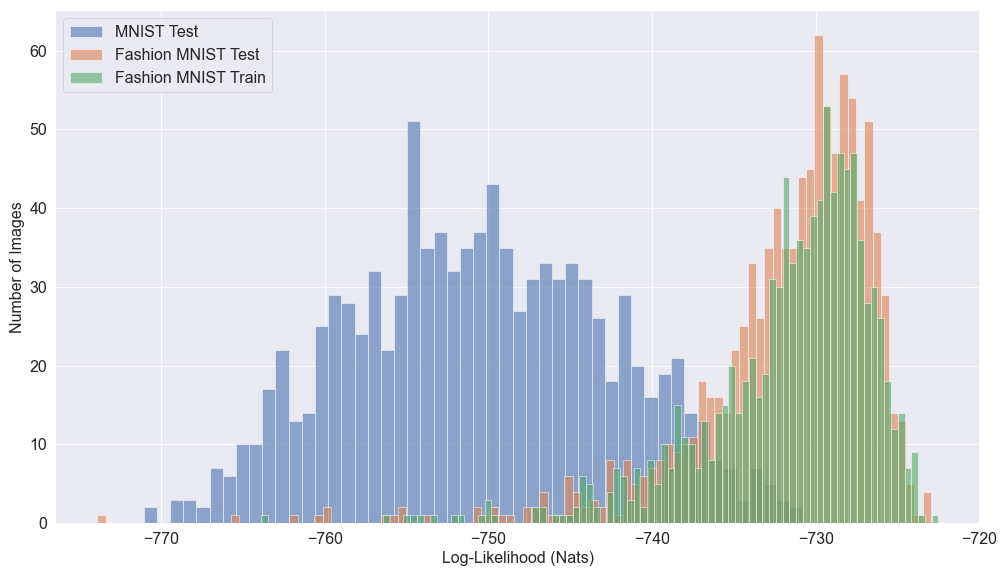
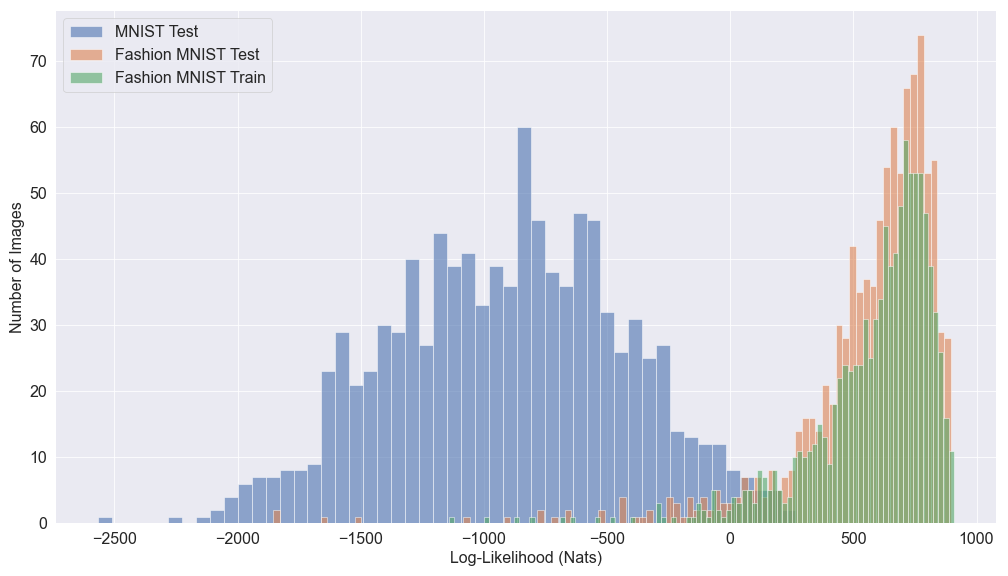
Added Bernoulli likelihood and learning the likelihood scale for the Gaussian case.

diff --git a/code/train_bvae.py b/code/train_bvae.py
@@ -27,8 +27,9 @@ def config():
     data_dir = "/scratch/gf332/Misc/datasets/"
     model_base_save_dir = "/scratch/gf332/Misc/bvae_experiments"
 
-    # Model options: vae, bvae-encoder, bvae-full
+    # Model options: vae, bvae-decoder, bvae-full
     model_type = "vae"
+    likelihood = "gaussian"
     prior_mode = "weight_and_bias"
 
     dataset_name = "fashion_mnist"
@@ -46,7 +47,7 @@ def config():
     # Logging
     tensorboard_log_freq = 1000
 
-    model_save_dir = f"{model_base_save_dir}/{dataset_name}/{model_type}/latent_dim_{latent_dim}"
+    model_save_dir = f"{model_base_save_dir}/{dataset_name}/{model_type}/{likelihood}_likelihood/latent_dim_{latent_dim}"
 
     current_time = datetime.datetime.now().strftime("%Y%m%d-%H%M%S")
     log_dir = f"{model_save_dir}/logs/{current_time}/train"
@@ -56,6 +57,7 @@ def config():
 def train(model_save_dir,
           data_dir,
           model_type,
+          likelihood,
           prior_mode,
           dataset_name,
           dataset_size,
@@ -93,6 +95,7 @@ def train(model_save_dir,
     # -------------------------------------------------------------------------
 
     model = BVAE(latent_dim=latent_dim,
+                 likelihood=likelihood,
                  prior_mode=prior_mode)
 
     model.build(input_shape=(batch_size, 28, 28, 1))
@@ -101,7 +104,7 @@ def train(model_save_dir,
 
     encoder_optimizer = {
         "vae": tf.optimizers.Adam(learning_rate=1e-3),
-        "bvae-encoder": tf.optimizers.Adam(learning_rate=1e-3),
+        "bvae-decoder": tf.optimizers.Adam(learning_rate=1e-3),
         "bvae-full": AdaptiveSGHMC(learning_rate=learning_rate,
                                    burnin=num_batch_per_epoch * burnin,
                                    data_size=dataset_size,
@@ -113,7 +116,7 @@ def train(model_save_dir,
     decoder_optimizer = {
         "vae": tf.optimizers.Adam(learning_rate=1e-3),
 
-        "bvae-encoder": AdaptiveSGHMC(learning_rate=learning_rate,
+        "bvae-decoder": AdaptiveSGHMC(learning_rate=learning_rate,
                                    burnin=num_batch_per_epoch * burnin,
                                    data_size=dataset_size,
                                    overestimation_rate=1,
@@ -158,13 +161,14 @@ def train(model_save_dir,
     def train_step(model, batch, beta):
 
         if int(ckpt.step) % num_batch_per_epoch == 0:
-            tf.print("Resampling weight scales!")
 
             if model_type == "bvae-full":
                 model.resample_weight_prior_parameters(kind="encoder")
+                tf.print("Resampling encoder weight scales!")
 
-            if model_type in ["bvae-encoder", "bvae-full"]:
+            if model_type in ["bvae-decoder", "bvae-full"]:
                 model.resample_weight_prior_parameters(kind="decoder")
+                tf.print("Resampling decoder weight scales!")
 
         weight_log_probs = []
         hyperprior_log_probs = []
@@ -175,7 +179,7 @@ def train(model_save_dir,
 
             reconstructions = model(batch)
 
-            elbo = model.likelihood - beta * model.kl_divergence
+            elbo = model.data_log_likelihood - beta * model.kl_divergence
 
             encoder_loss = -elbo
             decoder_loss = -elbo
@@ -189,7 +193,7 @@ def train(model_save_dir,
 
                 encoder_loss += -(encoder_wlp + encoder_hplp)
 
-            if model_type in ["bvae-encoder", "bvae-full"]:
+            if model_type in ["bvae-decoder", "bvae-full"]:
                 decoder_wlp = model.weight_prior_log_prob(kind="decoder") / data_size
                 decoder_hplp = model.hyper_prior_log_prob(kind="decoder") / data_size
 
@@ -201,14 +205,19 @@ def train(model_save_dir,
         encoder_gradients = tape.gradient(encoder_loss, model.encoder.trainable_variables)
         encoder_optimizer.apply_gradients(zip(encoder_gradients, model.encoder.trainable_variables))
 
-        decoder_gradients = tape.gradient(decoder_loss, model.decoder.trainable_variables)
-        decoder_optimizer.apply_gradients(zip(decoder_gradients, model.decoder.trainable_variables))
+        extra_decoder_vars = []
+
+        if model.likelihood == "gaussian":
+            extra_decoder_vars = [model.likelihood_log_scale]
+
+        decoder_gradients = tape.gradient(decoder_loss, model.decoder.trainable_variables + extra_decoder_vars)
+        decoder_optimizer.apply_gradients(zip(decoder_gradients, model.decoder.trainable_variables + extra_decoder_vars))
 
         del tape
 
         individual_kls = tf.reduce_mean(tfd.kl_divergence(model.posterior, model.prior), axis=0)
 
-        return reconstructions, model.likelihood, model.kl_divergence, weight_log_probs, hyperprior_log_probs, individual_kls
+        return reconstructions, model.data_log_likelihood, model.kl_divergence, weight_log_probs, hyperprior_log_probs, individual_kls
 
     for batch in train_data:
 
@@ -216,7 +225,7 @@ def train(model_save_dir,
 
         beta = tf.minimum((1. / tf.cast(anneal_epochs * num_batch_per_epoch, tf.float32)) * tf.cast(ckpt.step, tf.float32), 1.)
 
-        reconstructions, likelihood, kl_divergence, prior_log_probs, hyperprior_log_probs, individual_kls = train_step(model, batch, beta)
+        reconstructions, log_likelihood, kl_divergence, prior_log_probs, hyperprior_log_probs, individual_kls = train_step(model, batch, beta)
 
         if int(ckpt.step) % num_batch_per_epoch == 0:
 
@@ -225,9 +234,9 @@ def train(model_save_dir,
             _log.info(f"Step {int(ckpt.step)}: Saved model to {save_path}")
 
             with summary_writer.as_default():
-                tfs.scalar(name="Likelihood", data=likelihood, step=ckpt.step)
+                tfs.scalar(name="Likelihood", data=log_likelihood, step=ckpt.step)
                 tfs.scalar(name="Total_KL", data=kl_divergence, step=ckpt.step)
-                tfs.scalar(name="ELBO", data=likelihood - kl_divergence, step=ckpt.step)
+                tfs.scalar(name="ELBO", data=log_likelihood - kl_divergence, step=ckpt.step)
                 tfs.scalar(name="Beta", data=beta, step=ckpt.step)
 
                 for name, prior_log_prob in prior_log_probs:
@@ -238,6 +247,9 @@ def train(model_save_dir,
 
                 tfs.image(name="Original", data=batch, step=ckpt.step)
                 tfs.image(name="Reconstruction", data=reconstructions, step=ckpt.step)
+
+                if model.likelihood == "gaussian":
+                    tfs.scalar(name="Likelihood_scale", data=tf.exp(model.likelihood_log_scale), step=ckpt.step)
 
                 for i, kl in enumerate(individual_kls):
                     tfs.scalar(f"KL/dim_{i}", data=kl, step=ckpt.step)

diff --git a/code/bvae.py b/code/bvae.py
@@ -8,6 +8,10 @@ tfl = tf.keras.layers
 tfd = tfp.distributions
 
 
+def bernoulli_log_prob(mean, observation, eps=1e-7):
+    return observation * tf.math.log(mean + eps) + (1. - observation) * tf.math.log(1. - mean + eps)
+
+
 class Encoder(tfl.Layer):
 
     def __init__(self, prior_mode, latent_dim, dim_h=25, name="encoder", *args, **kwargs):
@@ -128,9 +132,24 @@ class Decoder(tfl.Layer):
 
 class BVAE(tf.keras.Model):
 
-    def __init__(self, latent_dim, prior_mode="weigth_and_bias", name="bvae", *args, **kwargs):
+    _AVAILABLE_LIKELIHOODS = [
+        "bernoulli",
+        "gaussian"
+    ]
+
+    def __init__(self,
+                 latent_dim,
+                 likelihood="gaussian",
+                 prior_mode="weigth_and_bias",
+                 name="bvae",
+                 *args, **kwargs):
 
         super().__init__(name=name, *args, **kwargs)
+
+        if likelihood not in self._AVAILABLE_LIKELIHOODS:
+            raise ValueError(f"Likelihood must be one of {self._AVAILABLE_LIKELIHOODS}, but {likelihood} was given!")
+
+        self.likelihood = likelihood
 
         self.latent_dim = latent_dim
         self.prior_mode = prior_mode
@@ -144,6 +163,9 @@ class BVAE(tf.keras.Model):
         self.prior_scale = tf.Variable(tf.ones(latent_dim), name="prior_scale")
 
         self.prior = tfd.Normal(loc=self.prior_mean, scale=self.prior_scale)
+
+        if self.likelihood == "gaussian":
+            self.likelihood_log_scale = tf.Variable(0., name="likelihood_log_scale")
 
     def resample_weight_prior_parameters(self, kind):
 
@@ -197,6 +219,10 @@ class BVAE(tf.keras.Model):
 
         return hyperprior_log_prob  # / tf.cast(num_params, tf.float32)
 
+    @property
+    def data_log_likelihood(self):
+        return self._log_likelihood
+
     def call(self, tensor):
 
         posterior_loc, posterior_scale = self.encoder(tensor)
@@ -210,8 +236,18 @@ class BVAE(tf.keras.Model):
 
         reconstruction = self.decoder(latent_code)
 
-        self.likelihood_dist = tfd.Normal(loc=reconstruction, scale=1.)
-        self.likelihood = self.likelihood_dist.log_prob(tensor)
-        self.likelihood = tf.reduce_mean(tf.reduce_sum(self.likelihood, axis=[1, 2, 3]))
+        if self.likelihood == "gaussian":
+            likelihood_dist = tfd.Normal(loc=reconstruction, scale=tf.exp(self.likelihood_log_scale))
+            self._log_likelihood = likelihood_dist.log_prob(tensor)
+
+        elif self.likelihood == "bernoulli":
+            reconstruction = tf.nn.sigmoid(reconstruction)
+            self._log_likelihood = bernoulli_log_prob(mean=reconstruction,
+                                                      observation=tensor)
+
+        else:
+            raise NotImplementedError
+
+        self._log_likelihood = tf.reduce_mean(tf.reduce_sum(self._log_likelihood, axis=[1, 2, 3]))
 
         return reconstruction

diff --git a/code/train_bnn_lvm.py b/code/train_bnn_lvm.py
@@ -128,7 +128,7 @@ def train(model_save_dir,
     else:
         _log.info("Initializing model from scratch.")
 
-    for i in range(100000):
+    for i in range(300000):
 
         ckpt.step.assign_add(1)
 
@@ -140,7 +140,7 @@ def train(model_save_dir,
 
             reconstructions = model.decoder(latents)
 
-            lvp = tfd.LogNormal(loc=tf.math.log(1e-3), scale=0.1)
+            lvp = tfd.LogNormal(loc=tf.math.log(1e-4), scale=0.1)
             likelihood_dist = tfd.Normal(loc=reconstructions,
                                          scale=tf.exp(model.likelihood_log_scale))
 

diff --git a/code/vae.py b/code/vae.py
@@ -4,6 +4,8 @@ tfd = tfp.distributions
 tfl = tf.keras.layers
 
 
+
+
 class Encoder(tfl.Layer):
 
     def __init__(self, latent_dim, name="encoder", *args, **kwargs):
